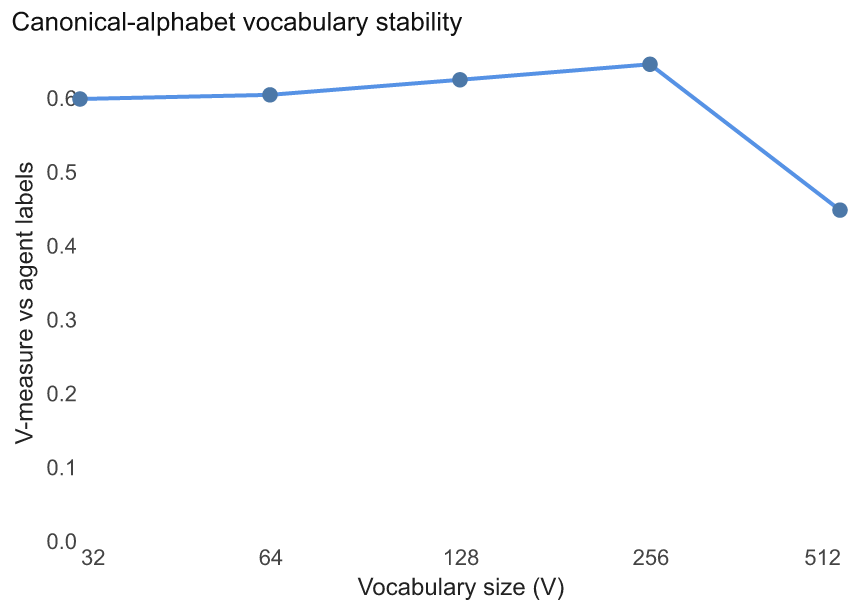
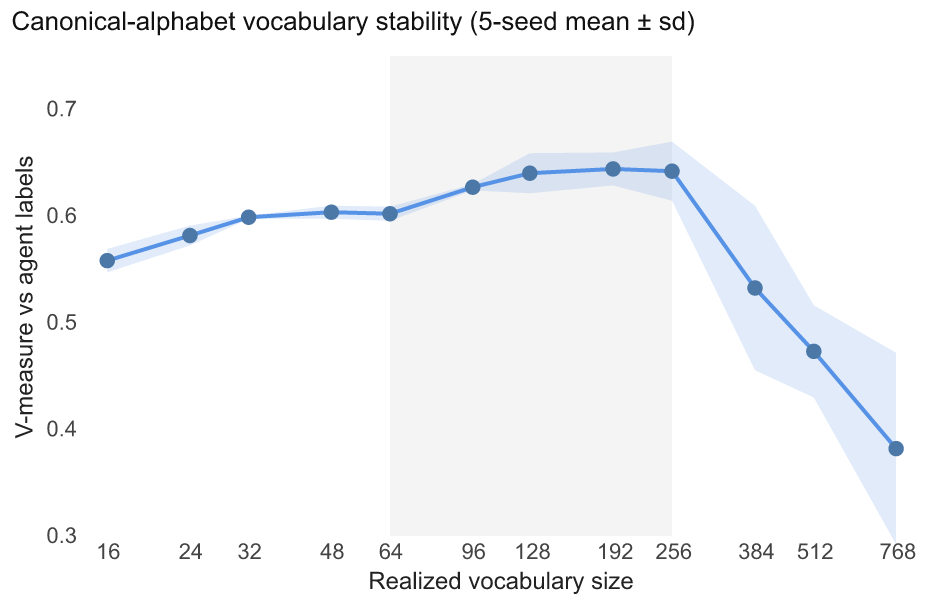
vmeasure: denser log sweep (12 V x 5 seeds), uncertainty band, plateau framing
- replace 5-point single-seed sweep with mean+/-sd band over realized vocab
- corrects over-claimed 'peak at 256' -> broad plateau 0.60-0.64 across V~96-256,
  steady degradation past 256 (0.53/0.47/0.38) with rising seed variance
- grey shaded used-range; update caption + methods to match

diff --git a/docs/papers/agent_trajectories_as_programs.tex b/docs/papers/agent_trajectories_as_programs.tex
@@ -457,7 +457,7 @@ Fingerprints give us behavioral trends that form the basis for predicting which 
 \begin{figure}[H]
     \centering
     \includegraphics[width=0.6\linewidth]{figures/fig_vmeasure_sweep.png}
-    \caption{\textcolor{blue}{V-measure of BPE canonical-vocabulary clustering against agent labels as a function of vocabulary size $V$. It is stable across $V=32$--$256$ (0.60--0.65), peaks at $V=256$ (0.647), and degrades at $V=512$ (0.449) as the vocabulary fragments---justifying the $V=64$--$256$ range used throughout. (Native-alphabet sweep omitted.)}}
+    \caption{\textcolor{blue}{V-measure of BPE canonical-vocabulary clustering against agent labels versus realized vocabulary size (5-seed KMeans mean $\pm$ sd). The score rises to a broad plateau of 0.60--0.64 across $V\approx96$--$256$ (high point ${\approx}0.64$ at $V=128$--$192$), then degrades steadily past 256 (0.53 at 384, 0.47 at 512, 0.38 at 768) with sharply rising seed variance as the vocabulary fragments---justifying the $V=64$--$256$ range used throughout (shaded). The plateau, not a sharp peak, is the point: the criterion is robust to vocabulary choice across a wide band.}}
     \label{fig:vmeasure}
 \end{figure}
 
@@ -514,7 +514,7 @@ Weighted mean  & 745 & 0.253 & -- & -- \\
 \textcolor{blue}{We study 2{,}639 trajectories from nine agents (Table~\ref{tab:models}) plus 499 SWE-agent-LM-32B child trajectories (\S\ref{sec:distillation}), all from public SWE-bench Verified leaderboard submissions (\texttt{princeton-nlp/SWE-bench-experiments}; raw trajectories from the submission S3 bucket). Each \texttt{.traj} is mapped to a canonical action sequence by \texttt{canonicalize\_envelope}, which dispatches on scaffold format (SWE-agent, Agentless, DARS, Moatless) and emits a shared ${\approx}76$-atom alphabet. Atoms carry a coarse verb and a file-type tag (e.g.\ \texttt{EDIT\_SRC\_PY}, \texttt{RUN\_PYTHON\_TEST\_PY}, \texttt{OPEN\_SRC\_PY}); chained shell commands are parsed past \texttt{cd\,\&\&} prefixes; Claude-3.7's \texttt{str\_replace\_editor} calls are rewritten into the SWE-agent alphabet; a thought with no tool call emits \texttt{THINK}; unmapped scaffold-specific actions collapse to \texttt{OTHER}. A coarse seven-type projection (\texttt{to\_canon}: \texttt{edit}, \texttt{create\_file}, \texttt{run\_test}, \texttt{read\_file}, \texttt{search\_repo}, \texttt{submit}, \texttt{other}) is used wherever a scaffold-agnostic alphabet is needed (attribution, reward, early-abort).}
 
 \subsection{\textcolor{blue}{Vocabulary induction}}
-\textcolor{blue}{Recurring procedures are induced by byte-pair encoding over the canonical sequences. Vocabulary size is selected by a clustering criterion: trajectories are represented as motif-frequency vectors, clustered with KMeans ($k=$ the number of agents), and scored against agent labels with V-measure (harmonic mean of homogeneity and completeness). Canonical V-measure is stable across $V=32$--$256$ (Figure~\ref{fig:vmeasure}); we use $V$ in the 64--256 range throughout.}
+\textcolor{blue}{Recurring procedures are induced by byte-pair encoding over the canonical sequences. Vocabulary size is selected by a clustering criterion: trajectories are represented as motif-frequency vectors, clustered with KMeans ($k=$ the number of agents), and scored against agent labels with V-measure (harmonic mean of homogeneity and completeness). Canonical V-measure (5-seed mean) rises to a plateau across $V\approx96$--$256$ and degrades past it as the vocabulary fragments (Figure~\ref{fig:vmeasure}); we use $V$ in the 64--256 range throughout.}
 
 \subsection{\textcolor{blue}{Probe specifications}}
 \textcolor{blue}{\emph{Attribution} (Table~\ref{tab:attribution}): TF-IDF over BPE motifs (token pattern \texttt{\textbackslash S+} to keep multi-action motifs intact, unigrams), multinomial logistic regression ($C{=}1$, \texttt{max\_iter}=1000, seed 42), evaluated out-of-fold under \texttt{GroupKFold}($k{=}5$) grouped by task instance; baselines are majority-class, stratified-random, and chance ($1/9$), with a standard-CV comparison as the leakage check. \emph{Early-abort} (Figure~\ref{fig:early_abort}): TF-IDF over unigram+bigram of the first $k$ coarse actions, the same LR and GroupKFold; the sequential policy re-scores every prefix length and aborts at the first $P(\text{resolve})<\tau$; compute is counted in canonical action steps. \emph{Next-action / next-stage} (Table~\ref{tab:trajectory_holdouts}): trajectories split into five groups, leave-one-group-out.}

diff --git a/scripts/agent_trajectories_paper/vmeasure_sweep_v2.py b/scripts/agent_trajectories_paper/vmeasure_sweep_v2.py
@@ -1,0 +1,96 @@
+"""Canonical V-measure vs vocabulary size — denser log sweep with seed band.
+
+Improves on vmeasure_sweep.py (5 points, single seed, line-interpolated peak):
+  - denser log grid so the plateau edge and degradation are actually sampled
+  - multiple KMeans seeds per V -> mean + uncertainty band (init variance)
+  - x-axis = REALIZED vocab size (BPE may not reach target)
+  - shaded V=64-256 band (the range used throughout the paper)
+Backs up the old 5-point figure first; does not fabricate. Run from repo root.
+"""
+import sys
+import json
+import shutil
+from collections import Counter
+from pathlib import Path
+
+sys.path.insert(0, ".")
+import numpy as np
+import pandas as pd
+import altair as alt
+from sklearn.cluster import KMeans
+from sklearn.metrics import v_measure_score
+from analysis.preferences.bpe import train_bpe, apply_bpe
+from scripts.theme import register, BLUE
+
+register()
+rows = [json.loads(l) for l in open("output/paper2_pilot/bpe_sequences_extended.jsonl")]
+seqs = [r["canonical"] for r in rows]
+labels = np.array([r["agent"] for r in rows])
+k = len(set(labels))
+
+GRID = [16, 24, 32, 48, 64, 96, 128, 192, 256, 384, 512, 768]
+SEEDS = [0, 1, 2, 3, 4]
+
+
+def bpe_vectors(V):
+    model = train_bpe(seqs, target_size=V, verbose=False)
+    if isinstance(model, tuple):
+        model = model[0]
+    tok = apply_bpe(seqs, model)
+    vocab = [t for t, _ in Counter(t for s in tok for t in s).most_common(V)]
+    idx = {t: i for i, t in enumerate(vocab)}
+    out = []
+    for s in tok:
+        v = [0] * len(vocab)
+        for t in s:
+            if t in idx:
+                v[idx[t]] += 1
+        out.append(v)
+    X = np.asarray(out, dtype=float)
+    sm = X.sum(1, keepdims=True); sm[sm == 0] = 1
+    return X / sm, len(vocab)
+
+
+runs = []
+agg = []
+for V in GRID:
+    X, nb = bpe_vectors(V)
+    vms = []
+    for seed in SEEDS:
+        km = KMeans(n_clusters=k, random_state=seed, n_init=10).fit(X)
+        vm = v_measure_score(labels, km.labels_)
+        vms.append(vm)
+        runs.append({"V": V, "vocab": nb, "seed": seed, "vmeasure": round(vm, 4)})
+    vms = np.array(vms)
+    agg.append({"V": V, "vocab": nb, "mean": float(vms.mean()), "sd": float(vms.std()),
+                "lo": float(vms.mean() - vms.std()), "hi": float(vms.mean() + vms.std())})
+    print(f"V={V:4d} (vocab {nb:4d}): V-measure {vms.mean():.3f} +/- {vms.std():.3f}", flush=True)
+
+Path("output/paper2_pilot/vmeasure_canonical_sweep_v2.json").write_text(
+    json.dumps({"runs": runs, "agg": agg}, indent=2))
+df = pd.DataFrame(agg)
+
+# realized-vocab x of the V=64 and V=256 targets -> shaded used range
+used = df[df.V.isin([64, 256])]["vocab"].tolist()
+band_df = pd.DataFrame({"x0": [min(used)], "x1": [max(used)]})
+
+xscale = alt.Scale(type="log", base=2, nice=False)
+shade = alt.Chart(band_df).mark_rect(opacity=0.07, color=BLUE).encode(
+    x=alt.X("x0:Q", scale=xscale), x2="x1:Q")
+area = alt.Chart(df).mark_area(opacity=0.18, color=BLUE).encode(
+    x=alt.X("vocab:Q", scale=xscale, title="Realized vocabulary size",
+            axis=alt.Axis(domain=False, ticks=False, values=GRID)),
+    y=alt.Y("lo:Q", title="V-measure vs agent labels",
+            scale=alt.Scale(domain=[0.3, 0.75]), axis=alt.Axis(domain=False, ticks=False)),
+    y2="hi:Q")
+line = alt.Chart(df).mark_line(point=True, color=BLUE, strokeWidth=2).encode(
+    x=alt.X("vocab:Q", scale=xscale), y="mean:Q")
+chart = (shade + area + line).properties(
+    width=400, height=240, title="Canonical-alphabet vocabulary stability (5-seed mean ± sd)")
+
+OUT = Path("docs/papers/figures/fig_vmeasure_sweep.png")
+if OUT.exists():
+    shutil.copy(OUT, OUT.with_name("fig_vmeasure_sweep_prev_5pt.png"))
+chart.save(str(OUT), scale_factor=2)
+print("wrote fig_vmeasure_sweep.png (backed up old -> fig_vmeasure_sweep_prev_5pt.png)", flush=True)
+print(df.round(3).to_string(index=False), flush=True)
